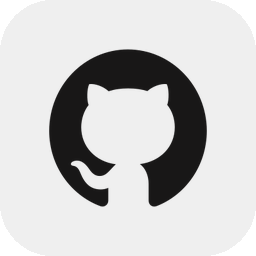
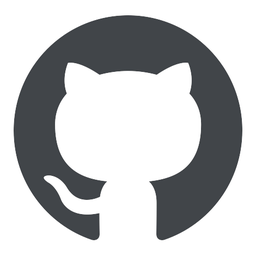
fix: show the GitHub mark on the spinner row for gh calls
The spinner was still rendering the octopus emoji because only the fully
rendered interactive card passed `brand` down to `_loading_element`. The
partial_update_element path that runs while a tool is actually executing
sent the emoji alone, so the stand-in stayed visible for the whole request.
`brand` now travels with the emoji through `_current_loading_status` on all
three call sites, and a switch that only changes the brand is no longer
skipped as "same label" (tracked via session._loading_brand).

The bundled github.png was also wrong: a grey rounded badge with a
reversed-out cat, which at 16px reads as a grey square. Replaced with the
official Octocat silhouette on a transparent background.

Tests: 1688 passed, including two regressions covering the spinner icon and
the brand-only label change.

diff --git a/controller/linear_mixin.py b/controller/linear_mixin.py
@@ -466,18 +466,19 @@ class UnifiedControllerMixin:
                 if action.get("action") == "add_elements":
                     elements.extend(action.get("params", {}).get("elements", []))
         else:
-            label, status_key, emoji = self._current_loading_status(session)
+            label, status_key, emoji, brand = self._current_loading_status(session)
             if (not elements or _only_preparation_records(session)) and session._response_phase in ("waiting", "compression"):
                 # Before the first model byte, the reversible context row owns
                 # waiting, memory retrieval and compression. The spinner takes over after
                 # model activity starts (or when content already exists).
                 hint_status = self._loading_hint_status(session)
                 elements.append(_loading_hint_element(hint_status))
-                label, status_key, emoji = None, None, None
+                label, status_key, emoji, brand = None, None, None, None
             elements.append(_loading_element(
                 label,
                 status_key=status_key,
                 emoji=emoji,
+                brand=brand,
                 text_sizes=session.text_sizes,
             ))
 
@@ -548,11 +549,11 @@ class UnifiedControllerMixin:
                     # Creation races the stream: if upstream already spoke, skip
                     # the waiting hint entirely and let the spinner row open on
                     # 模型思考中 rather than flashing a stale 等待上游模型响应.
-                    label, status_key, emoji = self._current_loading_status(session)
+                    label, status_key, emoji, brand = self._current_loading_status(session)
                     loading_hint_status = self._loading_hint_status(session)
                     include_hint = session._response_phase in ("waiting", "compression")
                     if include_hint:
-                        label, status_key, emoji = None, None, None
+                        label, status_key, emoji, brand = None, None, None, None
                     card = build_streaming_card_v2(
                         include_unified_panel=False,   # Panel added on first token
                         include_answer_element=False,   # Answer element added with panel
@@ -560,6 +561,7 @@ class UnifiedControllerMixin:
                         loading_hint_status=loading_hint_status,
                         loading_status_key=status_key,
                         loading_status_emoji=emoji,
+                        loading_status_brand=brand,
                         streaming_panel_expanded=self._cfg.streaming_panel_expanded,
                         print_strategy=self._cfg.print_strategy,
                         print_step=self._cfg.print_step,
@@ -1042,8 +1044,8 @@ class UnifiedControllerMixin:
 
     def _current_loading_status(
         self, session: CardSession,
-    ) -> tuple[tuple[str, str] | None, str | None, str | None]:
-        """Spinner-row content as ``(tool_label, status_key, emoji)``.
+    ) -> tuple[tuple[str, str] | None, str | None, str | None, str | None]:
+        """Spinner-row content as ``(tool_label, status_key, emoji, brand)``.
 
         The spinner row lives for the whole stream, so it — not the loading
         hint — is what can actually show 模型思考中 to a user: the hint is
@@ -1052,23 +1054,29 @@ class UnifiedControllerMixin:
         A running tool's name still wins; 模型思考中 fills the row whenever the
         upstream has spoken but no tool is holding it. Both states carry an
         emoji so the text doesn't shift sideways when one replaces the other.
+
+        ``brand`` is the artwork name for tools whose emoji is a stand-in (see
+        ``_tool_brand``). It has to travel with the emoji: passing only the
+        emoji left the spinner showing 🐙 for a `gh` call while the tool row
+        below it already carried the GitHub mark.
         """
         if session._response_phase == "compression":
             if _LOADING_HINT_ELEMENT_ID in session.existing_elements:
                 # The hint row is the visible compression status until the
                 # spinner is the only remaining placeholder.
-                return None, None, None
-            return None, "context_compressing", _COMPRESSION_EMOJI
+                return None, None, None, None
+            return None, "context_compressing", _COMPRESSION_EMOJI, None
         if session._response_phase == "waiting" and session._memory_prefetch_requests:
             if _LOADING_HINT_ELEMENT_ID in session.existing_elements:
-                return None, None, None
-            return None, self._loading_hint_status(session), None
+                return None, None, None, None
+            return None, self._loading_hint_status(session), None, None
         label = self._current_tool_label(session)
         if label:
-            return label, None, session.tool_use.status_tool_emoji
+            return label, None, session.tool_use.status_tool_emoji, session.tool_use.status_tool_brand
         if session._response_phase == "waiting":
-            return None, None, None  # the hint element still says 等待上游模型响应
-        return None, "model_thinking", _THINKING_EMOJI
+            # the hint element still says 等待上游模型响应
+            return None, None, None, None
+        return None, "model_thinking", _THINKING_EMOJI, None
 
     def _active_tool_for_header(self, session: CardSession) -> tuple[str, str] | None:
         """Active tool for the panel title — only when the spinner label can't carry it."""
@@ -1138,8 +1146,9 @@ class UnifiedControllerMixin:
         if not session.card_id or _LOADING_ELEMENT_ID not in session.existing_elements:
             return
 
-        label, status_key, emoji = self._current_loading_status(session)
-        if label == session._loading_label and status_key == session._loading_status_key:
+        label, status_key, emoji, brand = self._current_loading_status(session)
+        if (label == session._loading_label and status_key == session._loading_status_key
+                and brand == session._loading_brand):
             return
 
         actions = [{
@@ -1147,9 +1156,12 @@ class UnifiedControllerMixin:
             "params": {
                 "element_id": _LOADING_ELEMENT_ID,
                 "partial_element": {
-                    "icon": _loading_element(label, status_key=status_key, emoji=emoji)["icon"],
+                    "icon": _loading_element(
+                        label, status_key=status_key, emoji=emoji, brand=brand,
+                    )["icon"],
                     "text": _loading_status_text(
                         label, status_key=status_key, emoji=emoji,
+                        branded=bool(brand),
                         text_sizes=session.text_sizes,
                     ),
                 },
@@ -1162,6 +1174,7 @@ class UnifiedControllerMixin:
             )
             session._loading_label = label
             session._loading_status_key = status_key
+            session._loading_brand = brand
         except FeishuAPIError as e:
             if e.code == CARDKIT_STREAMING_CLOSED:
                 session._streaming_closed = True

diff --git a/tests/test_tool_status_label.py b/tests/test_tool_status_label.py
@@ -655,6 +655,7 @@ def _make_session(**kwargs):
     session._loading_label = None
     session._loading_label_supported = True
     session._loading_status_key = None
+    session._loading_brand = None
     session.sequence = 1
     session.text_sizes = {}
     session.tool_use = ToolUseTracker()
@@ -727,6 +728,46 @@ class TestSyncLoadingLabel:
 
         partial = client.cardkit_batch_update.await_args.args[1][0]["params"]["partial_element"]
         assert "读取文件" in partial["text"]["i18n_content"]["zh_cn"]
+
+    def test_github_spinner_uses_the_mark_not_the_emoji(self) -> None:
+        """Regression: the row showed 🐙 while the tool row below had the mark.
+
+        The emoji travels with a ``brand`` key, and only the fully rendered
+        card was passing it. The spinner update — the path that actually runs
+        during a tool call — sent the emoji alone, so the stand-in stayed
+        visible for the whole GitHub request.
+        """
+        client = MagicMock()
+        client.cardkit_batch_update = AsyncMock()
+        session = _make_session()
+        session.tool_use.record_start("terminal", "gh pr list")
+
+        asyncio.run(self._ctrl(client)._sync_loading_label(session))
+
+        partial = client.cardkit_batch_update.await_args.args[1][0]["params"]["partial_element"]
+        assert partial["icon"]["img_key"] == "hls-asset:github"
+        assert "🐙" not in partial["text"]["i18n_content"]["zh_cn"]
+        assert session._loading_brand == "github"
+
+    def test_github_brand_change_is_pushed_even_with_the_same_label(self) -> None:
+        """A tool switch that only changes the brand is still a visible change."""
+        client = MagicMock()
+        client.cardkit_batch_update = AsyncMock()
+        session = _make_session()
+        session.tool_use.record_start("terminal", "gh pr list")
+        asyncio.run(self._ctrl(client)._sync_loading_label(session))
+
+        client.cardkit_batch_update.reset_mock()
+        session.tool_use.record_end("terminal", output="ok")
+        session.tool_use.record_start("terminal", "ls")
+
+        asyncio.run(self._ctrl(client)._sync_loading_label(session))
+
+        client.cardkit_batch_update.assert_awaited_once()
+        partial = client.cardkit_batch_update.await_args.args[1][0]["params"]["partial_element"]
+        assert partial["icon"]["tag"] == "custom_icon"
+        assert partial["icon"]["img_key"] != "hls-asset:github"
+        assert session._loading_brand is None
 
     def test_skips_after_loading_element_deleted(self) -> None:
         client = MagicMock()

diff --git a/state/session.py b/state/session.py
@@ -43,10 +43,11 @@ class CardSession:
         "_first_flush_done",
         "_is_continuation",
         "_interactive_seal_started",
+        "_loading_brand",
+        "_loading_hint_state",
         "_loading_label",
         "_loading_label_supported",
         "_loading_status_key",
-        "_loading_hint_state",
         "_loop",
         "_memory_prefetch_requests",
         "_image_analysis_requests",
@@ -166,6 +167,9 @@ class CardSession:
         self._loading_label_supported: bool = True
         # Status text on that same row when no tool is running (model_thinking).
         self._loading_status_key: str | None = None
+        # Artwork name pushed on that row (``github``), so a tool switch that
+        # only changes the brand is not skipped as "same label".
+        self._loading_brand: str | None = None
         self._loading_hint_state: str = "loading_context"
 
     @property

diff --git a/docs/CHANGELOG.md b/docs/CHANGELOG.md
@@ -24,6 +24,16 @@ filesystem paths.
   div's `icon` slot on both the tool row and the spinner, uploaded once per
   bot and cached by the same `BrandAssets` path as OpenViking; a failed
   upload falls back to `setting_outlined`.
+- The spinner still showed 🐙 in practice, because only the fully rendered
+  card passed `brand` to `_loading_element`; the `partial_update_element` path
+  that runs during every tool call sent the emoji alone. `brand` now travels
+  with the emoji through `_current_loading_status`, on the spinner update, the
+  streaming card created mid-turn, and the interactive card. A tool switch
+  that only changes the brand is also no longer skipped as "same label".
+- `feishu/assets/github.png` was a grey rounded badge with a reversed-out cat,
+  which at 16px read as a grey square rather than GitHub's mark. It is now the
+  official Octocat silhouette on a transparent background, cropped to the ink
+  and padded optically.
 - Rename the internal segment walker `_command_programs` to
   `_command_invocations` so it also returns each segment's trailing arguments,
   which is what separates a local call from a GitHub one.
